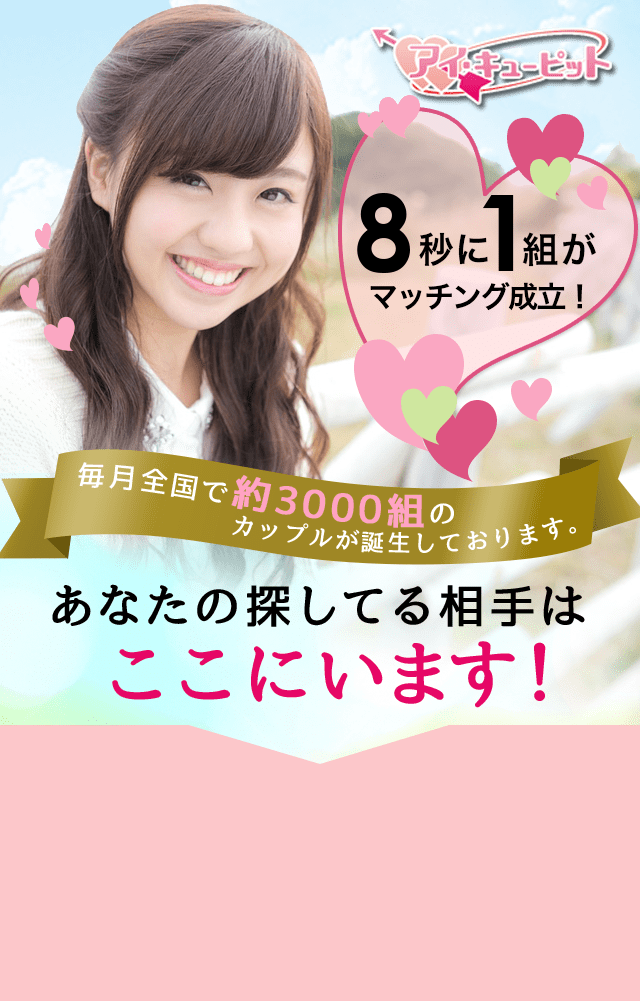
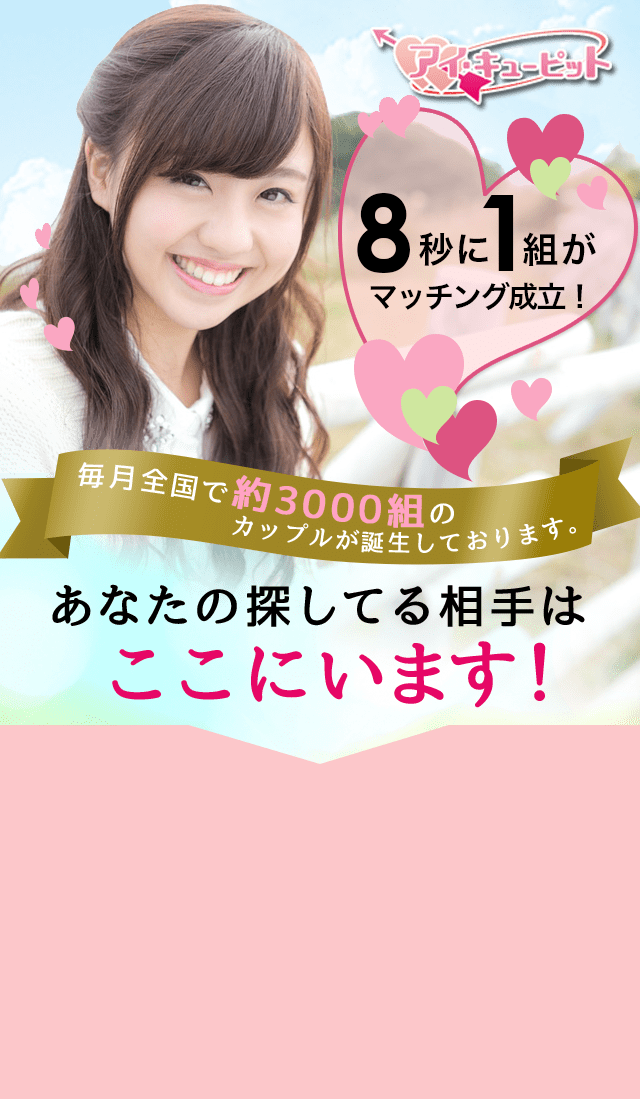
ボタン追加修正

diff --git a/public/index.html b/public/index.html
@@ -21,8 +21,19 @@
                             <img src="./img/i/img-top-min.png" class="img-full" alt="">
                             <div class="diagnosis">
                                 <p class="top-text">簡単な診断であなたの理想の相手がわかる！</p>
-                                <div class="btn-diagnosis" v-on:click="onMoveStageStart">
-                                    <img src="./img/i/btn-diagnosis-min.png" alt="">
+                                <div class="btn-diagnosis">
+                                    <div>
+                                        <img src="./img/i/btn-diagnosis-min.png" alt="" class="btn-diagnosis-img" v-on:click="onMoveStageStart">
+                                        <div class="navi-registration">
+                                            <a class="l-btn-registration" href="mailto:reg1@DOMAINNAME?subject=chance%3A[BCODE]%3Aafcd%3A[afcd]%3A&body=Yahooメールアドレスを推奨しております。%0d%0a%0d%0a本メール送信後、確認メールが返信されますので、そちらから本登録へのお手続きをお願い致します。%0d%0a%0d%0a※返信が届かない場合は迷惑メールフォルダをご確認くださいますようお願い致します。">
+                                                <img src="./img/i/iqlp_reborn01_btn_man_lp_registration_small-min.png" alt="">
+                                            </a>
+                                            <a class="l-btn-registration" href="mailto:reg0@DOMAINNAME?subject=chance%3A[BCODE]%3Aafcd%3A[afcd]%3A&body=Yahooメールアドレスを推奨しております。%0d%0a%0d%0a本メール送信後、確認メールが返信されますので、そちらから本登録へのお手続きをお願い致します。%0d%0a%0d%0a※返信が届かない場合は迷惑メールフォルダをご確認くださいますようお願い致します。">
+                                                <img src="./img/i/iqlp_reborn01_btn_woman_lp_registration_small-min.png" alt="">
+                                            </a>
+                                        </div>
+                                    </div>
+                                    
                                 </div>
                             </div>
                             <div class="c-btn-skip" v-on:click="onSkip"></div>

diff --git a/src/scss/_page.scss b/src/scss/_page.scss
@@ -130,7 +130,7 @@
 
 .content-box {
     position: relative;
-    height: 1136px;
+    height: 1226px;
 }
 
 .page-top-start {
@@ -139,24 +139,33 @@
         display: flex;
         justify-content: center;
         width: 100%;
+        margin-bottom: 8px;
+        font-size: 27px;
     }
     .diagnosis {
         width: 100%;
         position: absolute;
         left: 0;
-        bottom: 50px;
+        bottom: 25px;
     }
     .btn-diagnosis {
         margin: auto;
         display: flex;
         justify-content: center;
         width: 600px;
+        &-img {
+            margin-bottom: 30px;
+        }
     }
     .c-btn-skip {
         position: absolute;
         bottom: -95px;
         left: 50%;
         margin-left: -118px;
+    }
+    .navi-registration {
+        display: flex;
+        justify-content: space-between
     }
 }
 

diff --git a/src/javascript/application.js b/src/javascript/application.js
@@ -16,7 +16,7 @@ Vue.component('start-view', {
         },
         onSkip: function(e) {
             window.scrollTo({
-                top: 1136,
+                top: 1236,
                 behavior: "smooth"
             })
         },
@@ -39,7 +39,7 @@ Vue.component('stage', {
         },
         onSkip: function(e) {
             window.scrollTo({
-                top: 1136,
+                top: 1236,
                 behavior: "smooth"
             })
         },
@@ -91,7 +91,7 @@ const vm = new Vue({
         },
         onSkip: function(e) {
             window.scrollTo({
-                top: 1136,
+                top: 1236,
                 behavior: "smooth"
             })
         },
